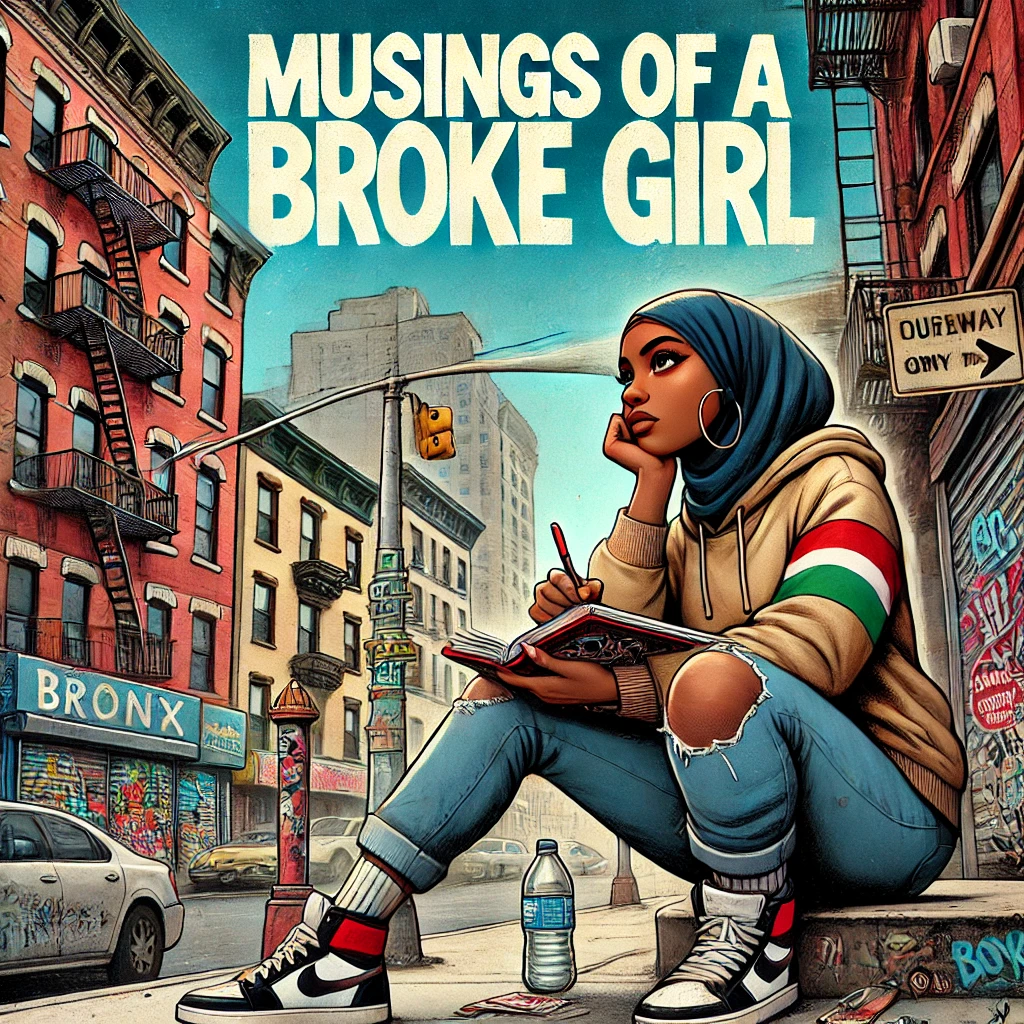
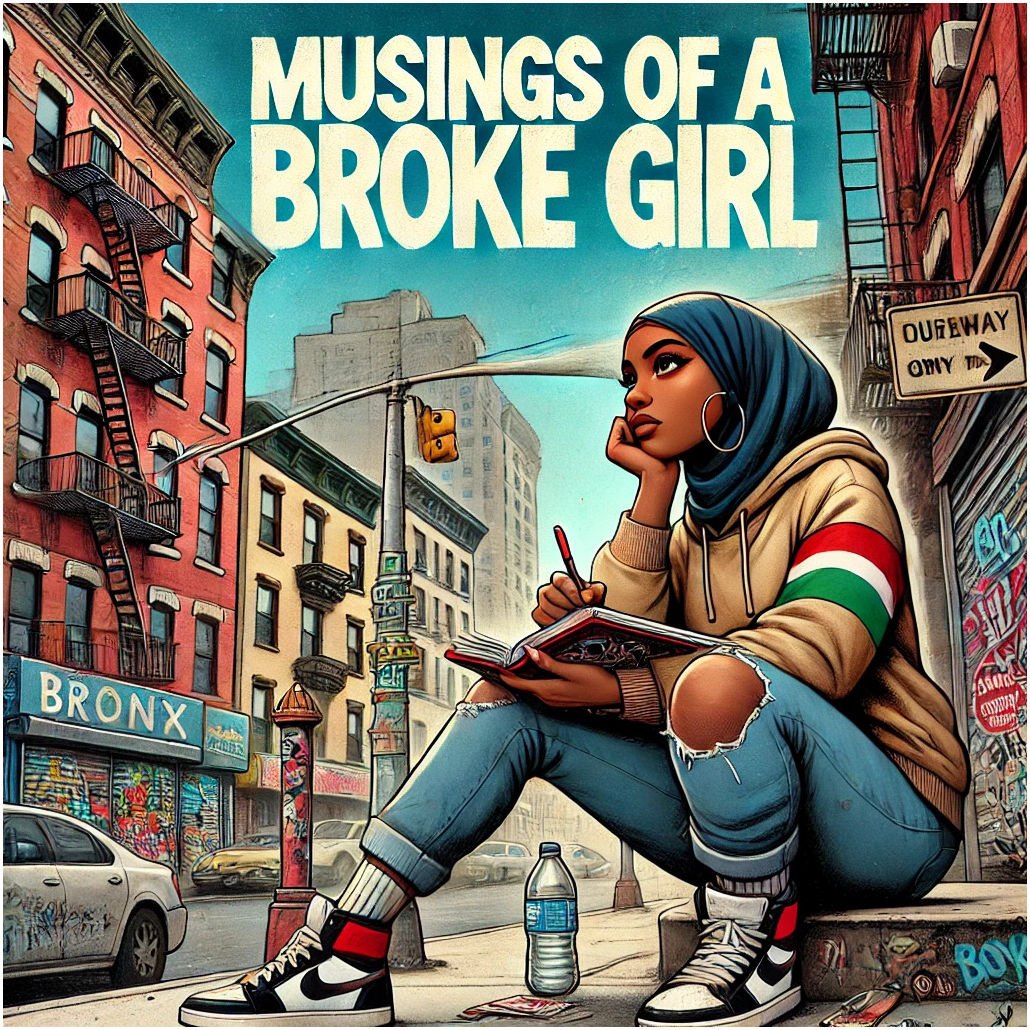
Modifying timeline buttons to show the entire background as a pre-selected image when hovered. Major points: - Timeline buttons now display an image in full when hovered. - Timeline buttons now hide button text when hovered. Minor points: - Added 'timelinebarsecondary' variant that uses a sandy colo

diff --git a/app/page.tsx b/app/page.tsx
@@ -13,9 +13,9 @@ import { Bookmark, Heart, MessageCircle, MoreHorizontal, Search, Send } from "lu
 // Sample data for timeline and posts
 const timelineData = [
   { id: "japan-2024", label: "Japan", date: "December 2024", img: "instagramIcon.png" },
-  { id: "greece-2024", label: "Greece", date: "Summer 2024", img: "instagramIcon.png" },
-  { id: "musing-of-a-broke-girl", label: "Musings of a Broke Girl", date: "Fall 2024", img: "musingsofabrokegirl.png" },
-  { id: "tennesse-2021", label: "Tennesse", date: "Summer 2021", img: "instagramIcon.png" },
+  { id: "greece-2024", label: "Greece", date: "Summer 2024", img: "DSC04674topmargin.png" },
+  { id: "musing-of-a-broke-girl", label: "Musings of a Broke Girl", date: "Fall 2024", img: "musingsofabrokegirltopmargin.png" },
+  { id: "tennesse-2021", label: "Tennesse", date: "Summer 2021", img: "DSC04678.jpg" },
 ]
 
 const socialMediaLinkData = [
@@ -82,19 +82,19 @@ export default function PortfolioFeedWithTimeline() {
     : postsData
 
   return (
-    <div className="flex h-screen bg-gray-100">
+    <div className="flex h-screen">
       {/* Timeline */}
-      <aside className="w-64 border-r bg-white">
+      <aside className="w-64 border-r bg-sand">
         <div className="flex h-full flex-col">
-          <div className="p-4">
+          <div className="p-4 bg-lightsand">
             <h2 className="mb-2 text-lg font-semibold text-black">Mariam Abalo-Toga</h2>
             <p className="text-sm text-gray-600">Travel Photographer</p>
           </div>
           <ScrollArea className="flex-1">
             <nav className="space-y-2 p-4">
               <Button
-                className="w-full justify-start text-black allposts"
-                variant={selectedCategory === null ? "secondary" : "ghost"}
+                className="w-full justify-start text-black"
+                variant={selectedCategory === null ? "timelinebarsecondary" : "timelinebarghost"}
                 onClick={() => setSelectedCategory(null)}
               >
                 <p>All Posts</p>
@@ -102,18 +102,21 @@ export default function PortfolioFeedWithTimeline() {
               {timelineData.map((item) => (
                 <Button
                   key={item.id}
-                  className="w-full justify-start relative group"
-                  variant={selectedCategory === item.id ? "secondary" : "ghost"}
+                  className="w-full justify-start relative group hideimage"
+                  variant={selectedCategory === item.id ? "timelinebarsecondary" : "timelinebarghost"}
                   onClick={() => setSelectedCategory(item.id)}
+                  style={{backgroundImage: `url('/${item.img}')`}}
                 >
-                  <div className="text-container flex flex-col items-start">
+                  <div className="text-container flex flex-col items-start hidetext">
                     <span className="text-black">{item.label}</span>
                     <span className="text-xs text-gray-500">{item.date}</span>
+                    {/*
                     <img
                       src={item.img}
                       alt="hover"
                       className="hover-image"
                     />
+                    */}
                   </div>
                 </Button>
               ))}
@@ -140,8 +143,8 @@ export default function PortfolioFeedWithTimeline() {
       {/* Main content */}
       <main className="flex-1">
         {/* Header */}
-        <header className="flex items-center justify-between border-b bg-white p-4 text-black">
-          <h1 className="text-2xl font-bold text-black">Travel Portfolio</h1>
+        <header className="flex items-center justify-between border-b bg-redsand p-4">
+          <h1 className="text-2xl font-bold text-lightsand">Travel Portfolio</h1>
           <div className="flex items-center space-x-4">
             <form className="relative">
               <Search className="absolute left-2.5 top-2.5 h-4 w-4 text-gray-500" />

diff --git a/app/globals.css b/app/globals.css
@@ -35,28 +35,21 @@
     --radius: 0.5rem;
   }
 
-  /* Style the image inside the button */
-  .hover-image {
-    width: 0px; /* Initial small size */
-    height: 0px; /* Initial small size */
-    /*position: absolute;
-    top: 50%;
-    left: 0%; /* Positioning it next to the button */
-    /*transform: translateY(-50%);*/
-    transition: width 0.3s ease, height 0.3s ease;
-    /* Optional: Initially hide the image if needed */
-    opacity: 0;
+  /* Remove button text when hovered for timeline buttons other than "All Posts" */
+  .group:hover .hidetext {
+    visibility: hidden;
   }
 
-  /* do not expand All Posts button when hovered */
-  .allposts:hover {
-    padding-top: 0%;
-    padding-bottom: 0%;
+  /* Remove background image when timeline button is not hovered */
+  .hideimage {
+    background-size: 0;
   }
 
   /* When hovering over the button, expand the image and increase height*/
   Button:hover {
-    padding-top: 85%; /* Increase height to make space for the expanded image */
+    height: 85%; /* Increase height to make space for the expanded image */
+    background-size: cover;
+    background-repeat: no-repeat;
   }
   
   /* On button hover, increase the height and font size for text within the sub divs */
@@ -72,6 +65,12 @@
     margin-top: 3px;
     display: flex;
     justify-content: left;
+  }
+
+  /* shrink top-most header on scroll */
+  .top-header {
+    position: fixed;
+    transition: 0.4s;
   }
  
   .dark {

diff --git a/components/ui/button.tsx b/components/ui/button.tsx
@@ -18,9 +18,11 @@ const buttonVariants = cva(
         secondary:
           "bg-secondary text-secondary-foreground shadow-sm hover:bg-secondary/80",
         ghost: "hover:bg-accent hover:text-accent-foreground",
+        timelinebarghost: "hover:bg-lightsand hover:text-accent-foreground",
         link: "text-primary underline-offset-4 hover:underline",
-        contained:
-          "bg-primary text-primary-foreground shadow hover:bg-primary-dark",
+        timelinebarsecondary:
+          "bg-lightsand text-secondary-foreground shadow-lg hover:bg-lightsand",
+          
       },
       size: {
         default: "h-9 px-4 py-2",

diff --git a/tailwind.config.js b/tailwind.config.js
@@ -17,6 +17,9 @@ module.exports = {
       },
       extend: {
         colors: {
+          sand: "#eab676",
+          lightsand: "#fde9b4",
+          redsand: "#b8400b",
           border: "hsl(var(--border))",
           input: "hsl(var(--input))",
           ring: "hsl(var(--ring))",
